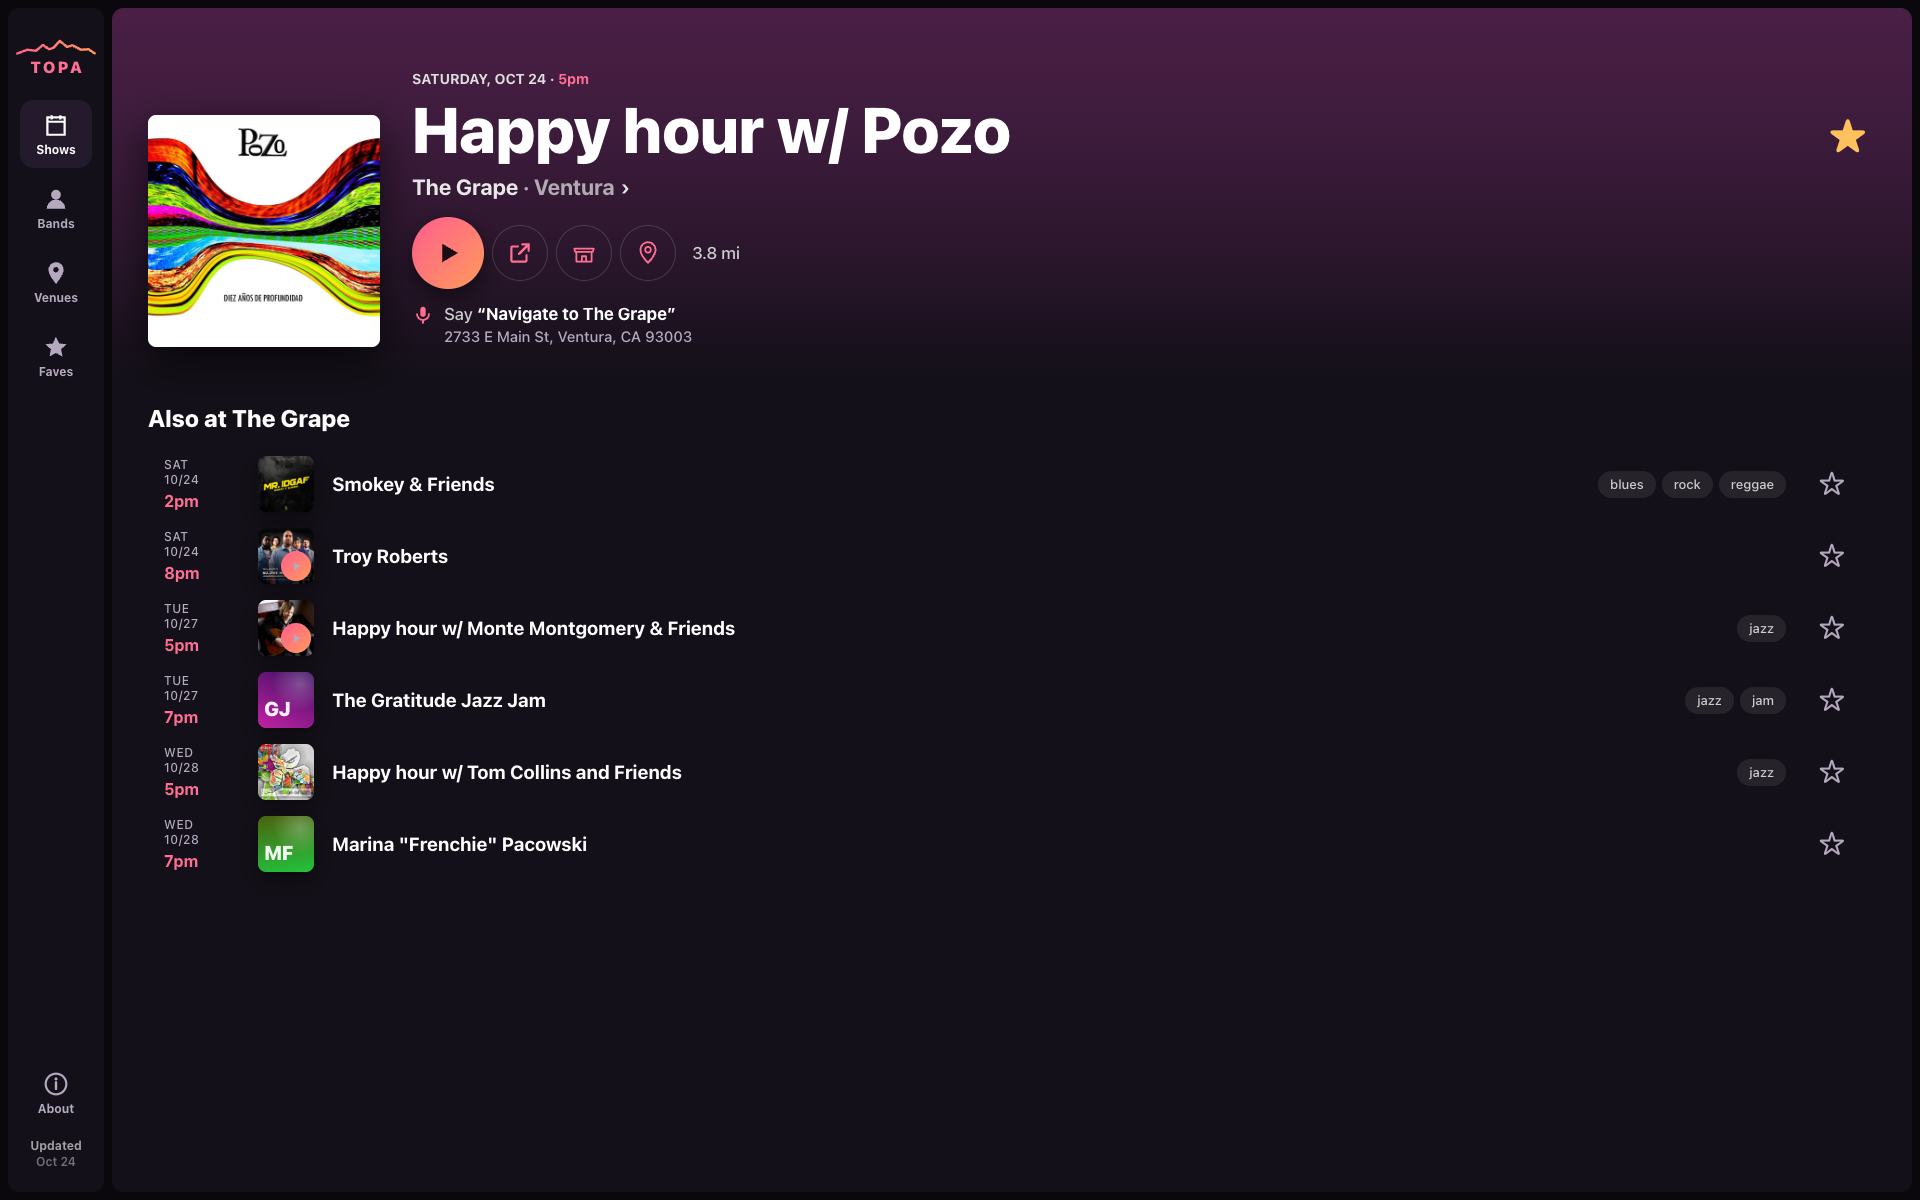
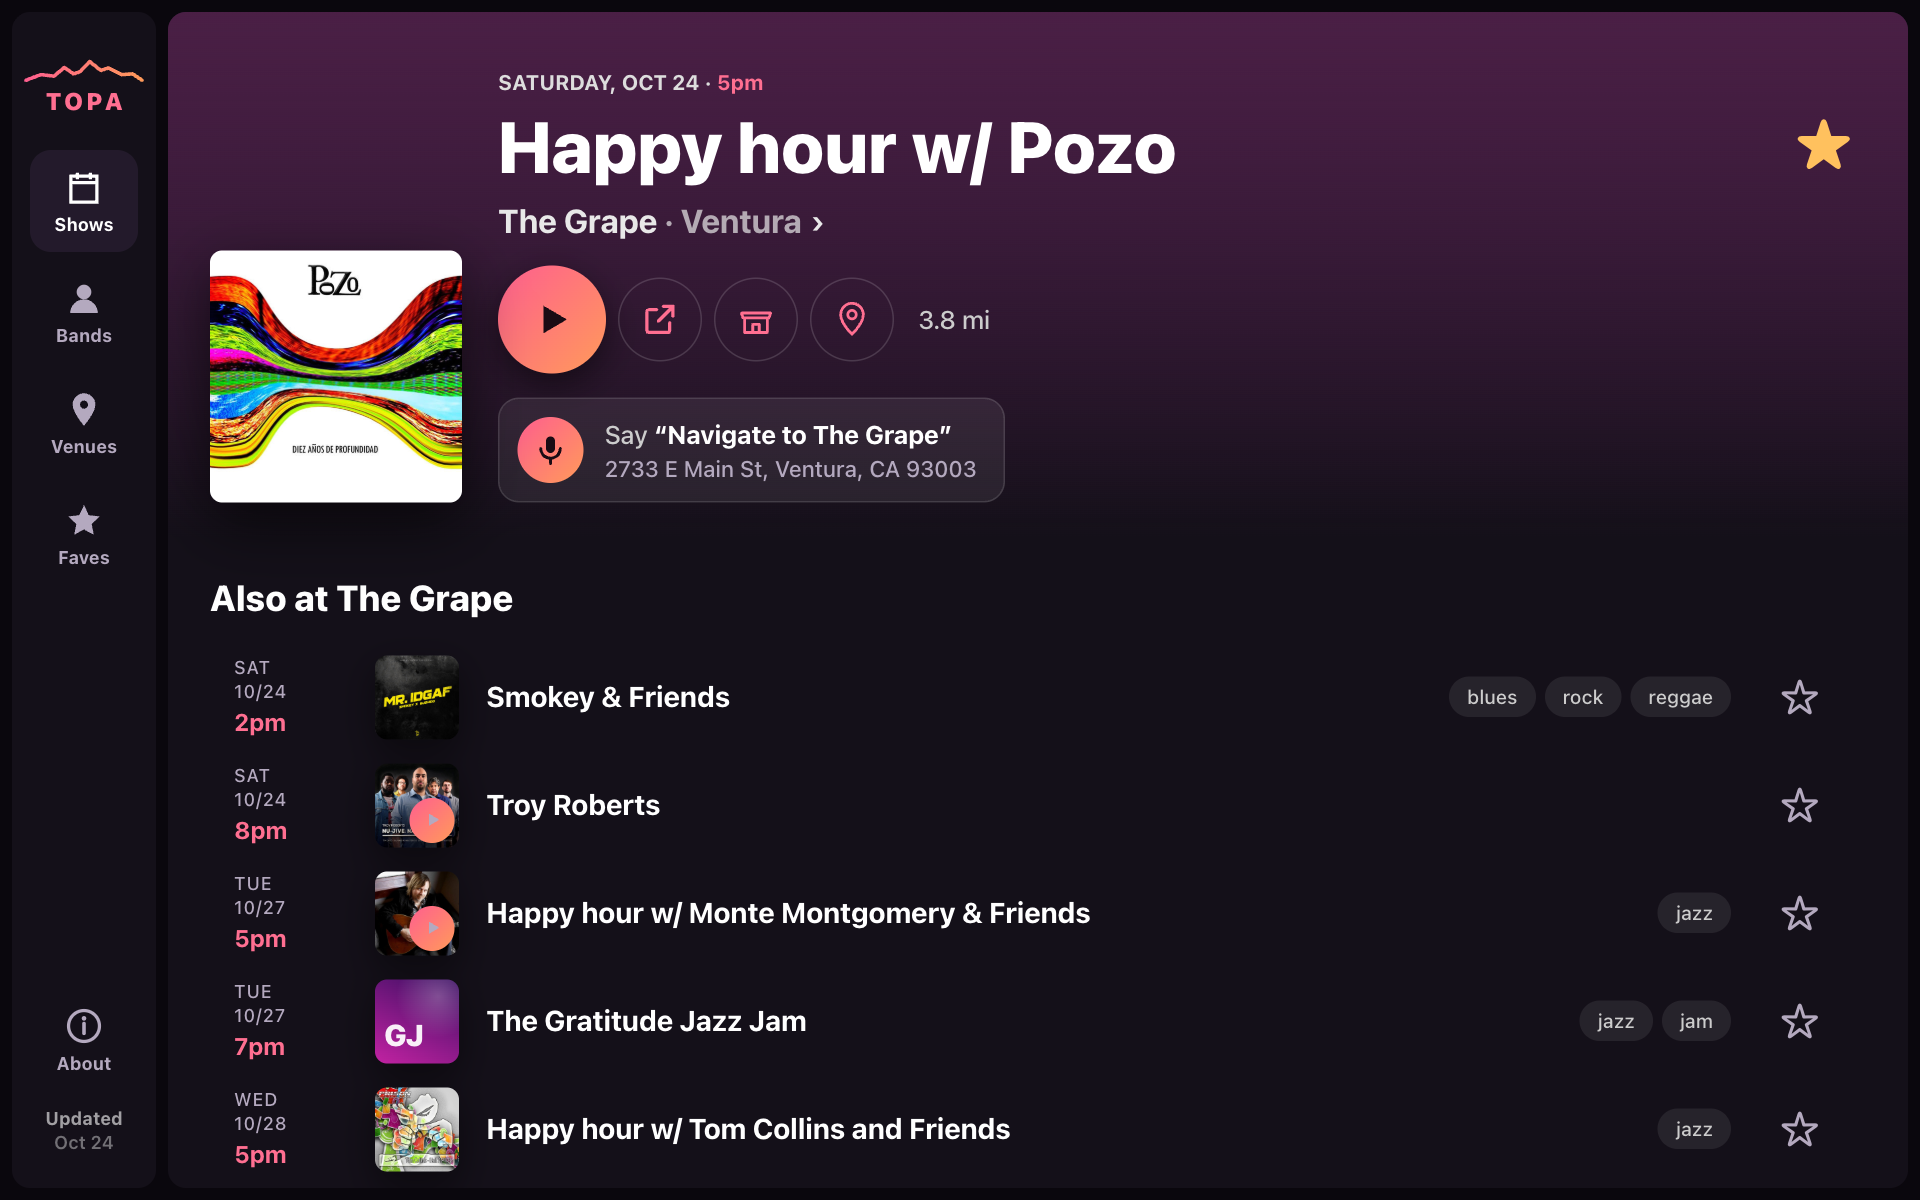
Retake screenshots at the car's real resolution; README: layout adapts to the screen

diff --git a/app.js b/app.js
@@ -10,8 +10,8 @@
 const VERSION = "0.9.6";
 const params = new URLSearchParams(location.search);
 
-// the car's browser: some versions say "Tesla" in the user agent; others only say Linux, on a touchscreen,
-// which almost nothing else is. ?tesla=1 shows the car-only bits anywhere, for testing.
+// the car's browser calls itself "TeslaBrowser/<version>" on Linux; in case a version leaves that out, a Linux
+// touchscreen (which almost nothing else is) counts too. ?tesla=1 shows the car-only bits anywhere, for testing.
 const IN_TESLA =
   /Tesla/i.test(navigator.userAgent) ||
   (/X11; Linux/.test(navigator.userAgent) &&

diff --git a/README.md b/README.md
@@ -16,7 +16,7 @@
   </tr>
 </table>
 
-More in [`screenshots/`](screenshots/): every page at Tesla size (1920×1200) and phone size.
+More in [`screenshots/`](screenshots/): every page on the Tesla screen (1920×1200, as the car draws it) and on a phone.
 
 ## Use it
 
@@ -63,6 +63,9 @@ Built for glancing at a car screen, then refined for phones:
 - **Big targets, one tap.** Main buttons are 44–60px tall. Choices are buttons you can see, not dropdowns or sliders. Picking a distance is one tap and closes the panel, and every star faves in one tap without leaving the page.
 - **The sidebar sits on the left on the Tesla.** It's the closest edge to the driver, it uses width (which the screen has plenty of) instead of height, and it keeps app buttons away from Tesla's own controls at the bottom. Phones get a bottom tab bar instead.
 - **Fewer places to look.** Search sits in the Shows header instead of on its own tab, and there's no separate Home page. The menu is Shows · Bands · Venues · Faves.
+- **The layout moves with the screen.** Sizes adjust as the screen gets wider or narrower, so TOPA fits the Tesla at
+  full screen, the narrower view when the car's side panel is open, a laptop window, and a phone, without anything
+  oversized or cramped. (The car's browser is zoomed in, so full screen behaves like a 1280px-wide window.)
 - **Short headers.** Title, count, search and the main buttons share one row on the Tesla, so more shows fit on screen.
 - **Rows that scroll sideways say so.** Day and genre rows fade at the edge and show ‹ › arrows on the Tesla when more chips
   are hidden. Phones show a cut-off chip and swipe instead.
